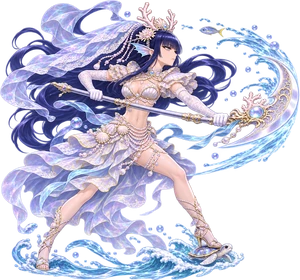
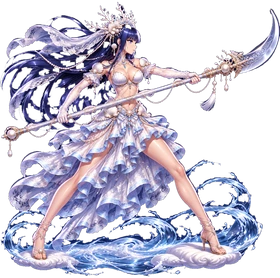
용왕의 장수 원본 달빛 극화체 교체, 칼끝·칼 기울기로 발사
Claude-Session: https://claude.ai/code/session_01X3WCR5Skc58i6ujNZho15h

diff --git a/game/geumeum/dokkaebi-shooter.html b/game/geumeum/dokkaebi-shooter.html
@@ -1793,8 +1793,8 @@ function rogueFire(n0) { // 그믐의 탑 축복: 기본 공격
   const c = nw[Math.floor(nw.length / 2)]; for (let j = 0; j < 0; j++) { const a = Math.atan2(c.vy, c.vx) + (j % 2 ? -1 : 1) * (0.16 + 0.08 * (j >> 1)), sp = Math.hypot(c.vx, c.vy); shots.push(Object.assign({}, c, { vx: Math.cos(a) * sp, vy: Math.sin(a) * sp, hit: c.hit ? new Map() : c.hit })); }
   if (rb('b_fast')) P.fcd /= Math.pow(1.15, rb('b_fast'));
 }
-const MUZ = { 22: [30, -50] }; // 기본 탄이 나가는 자리(그림의 무기 끝): 강림도령 창끝
-const MUZA = { 22: -0.25 }; // 기본 탄이 날아가는 각도(라디안, 위가 -): 강림도령은 할버드 각도 약 14도(사용자 11/23)
+const MUZ = { 9: [26, -36], 22: [30, -50] }; // 기본 탄이 나가는 자리(그림의 무기 끝): 강림도령 창끝
+const MUZA = { 9: -0.3, 22: -0.25 }; // 기본 탄이 날아가는 각도(라디안, 위가 -): 강림도령은 할버드 각도 약 14도(사용자 11/23)
 function fire0() { const n0 = shots.length; fire0b(); const an = MUZA[P.ch]; if (an) for (let i = n0; i < shots.length; i++) { const s = shots[i], c = Math.cos(an), sn = Math.sin(an), vx = s.vx, vy = s.vy; s.vx = vx * c - vy * sn; s.vy = vx * sn + vy * c; } }
 function fire0b() {
   const p = P.power, mo = MUZ[P.ch] || [0, 0], x = P.x + 14 + mo[0], y = P.y + mo[1]; sfx.shot(); P.muz = 0.07;

diff --git a/game/geumeum/README.md b/game/geumeum/README.md
@@ -397,3 +397,6 @@
 - ② 보조: 번개가 맞으면 근처의 젖은 적 최대 3마리에게 번개가 옮겨 감.
 - ③ 스킬 승천 돌진: 용 그림자와 위아래 물결 셋이 돌진(적시고 피해, 탄 제거). 몸은 제자리.
 - ④ 끝: 여의주가 터지며 화면 전체 번개 세례. 수치는 `AWK_IM`.
+
+### 용왕의 장수 원본 그림 달빛 극화체 교체 (캐릭터 9)
+- `p9b`·`cut9x` 교체(월도를 두 손으로 오른쪽 위로 겨눔). 강림도령과 같은 규칙으로 기본 탄이 칼끝(`MUZ[9]` = [26, -36])에서 칼 기울기(`MUZA[9]` = -0.3, 약 17도 위)로 나감.
